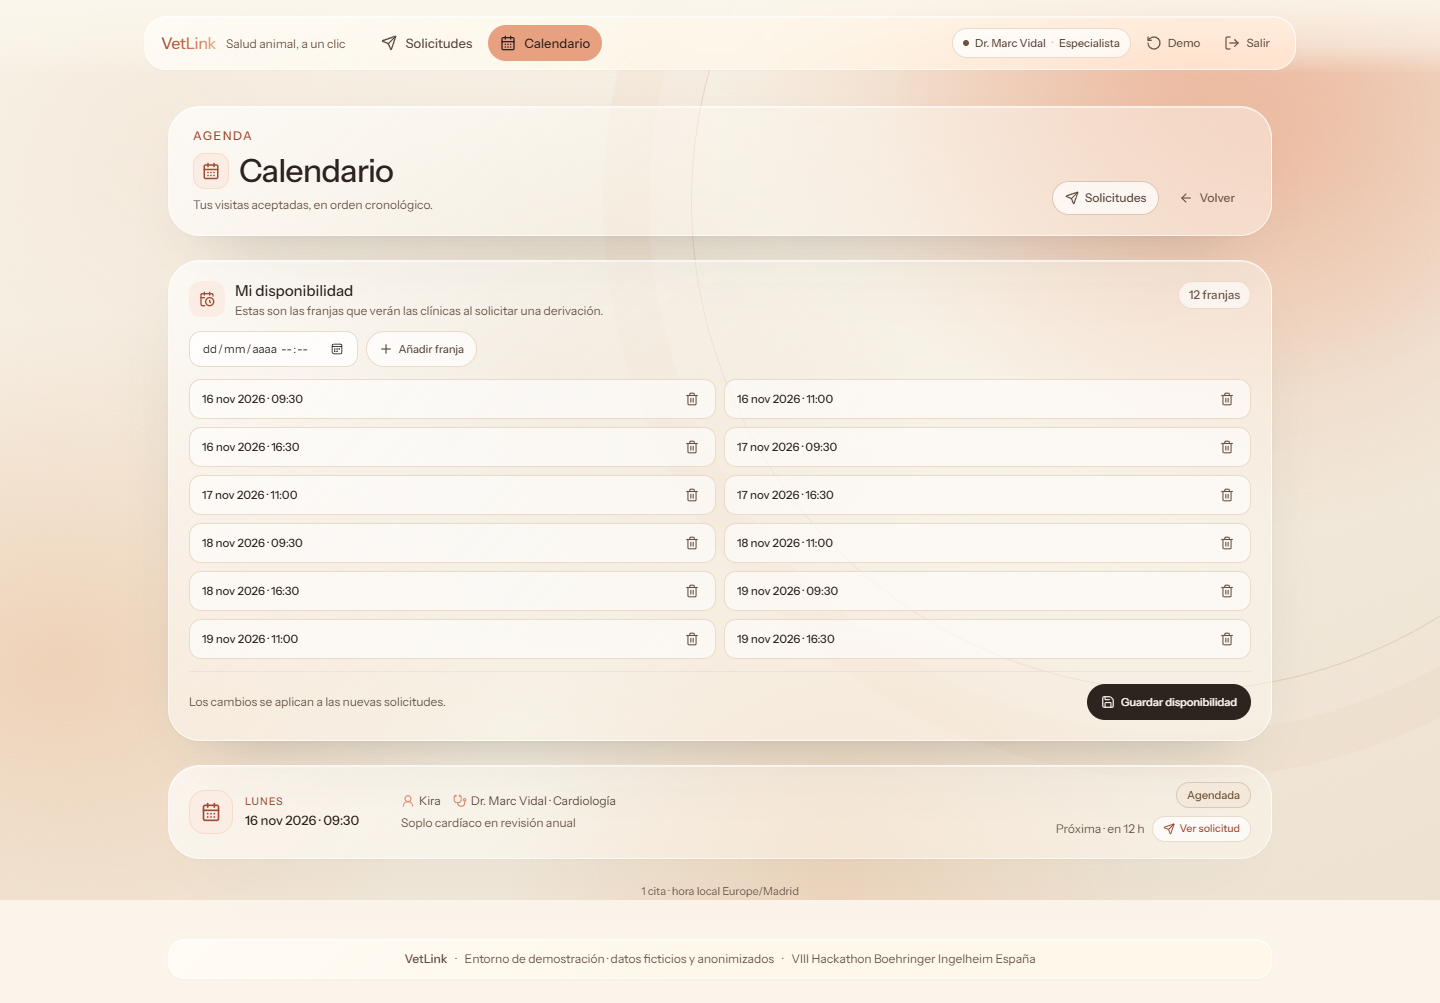
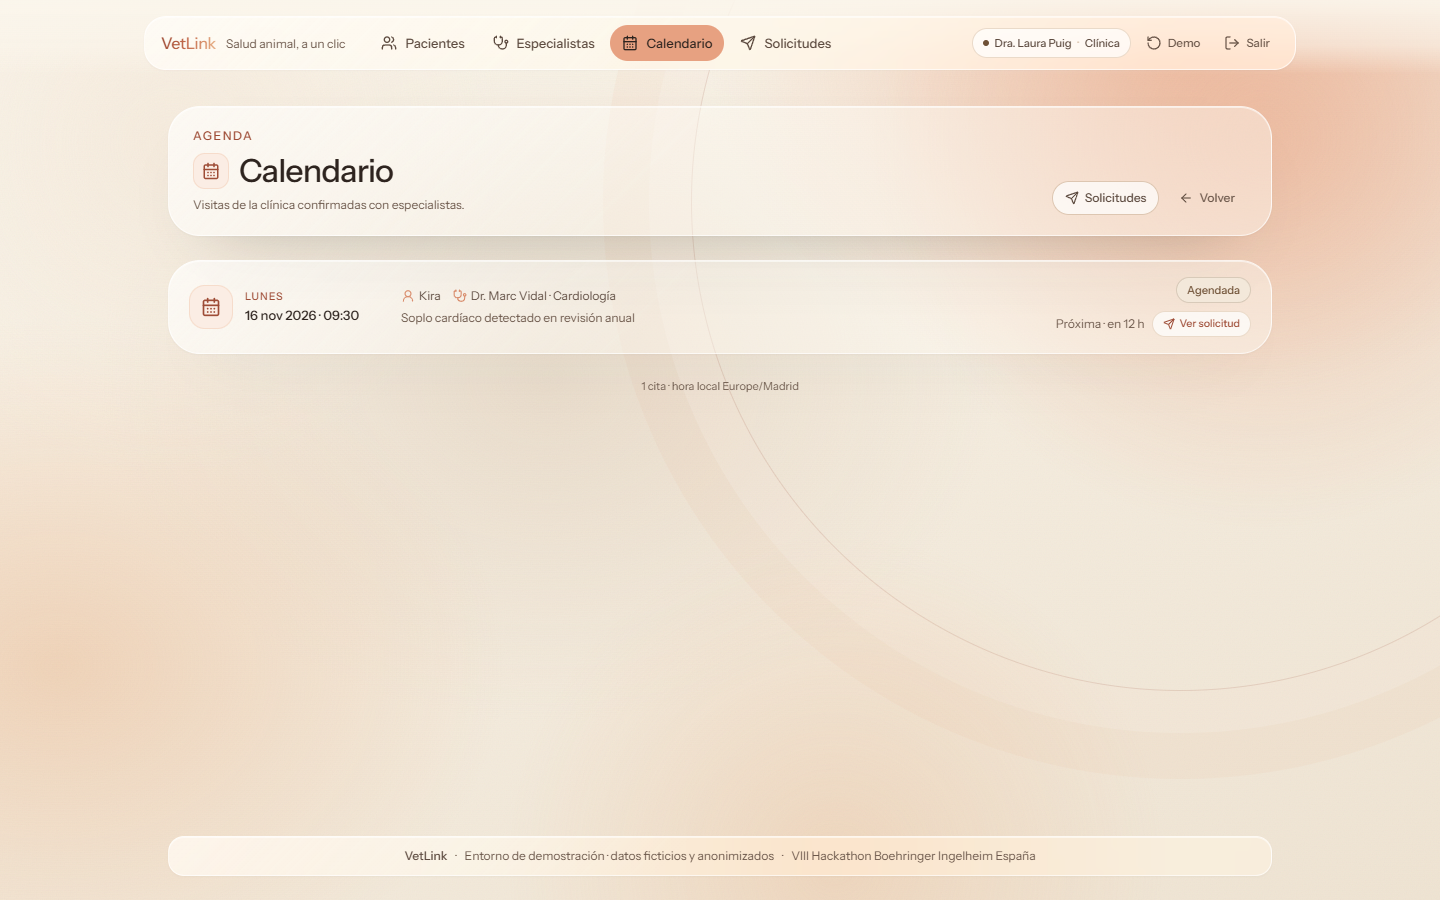
docs: actualizar agenda de clinica y tamano movil
Recaptura el calendario desde la clinica con una cita agendada y reduce la captura movil en el README.

diff --git a/README.md b/README.md
@@ -131,7 +131,7 @@ El botón **Cargar demo** de la cabecera reinicia los datos de ejemplo.
 
 La ficha, las alertas y la navegación están preparadas para móvil:
 
-![Ficha en móvil](screenshots/09-movil-ficha.png)
+<img src="screenshots/09-movil-ficha.png" alt="Ficha en móvil" width="320" />
 
 ## Funcionalidades
 
